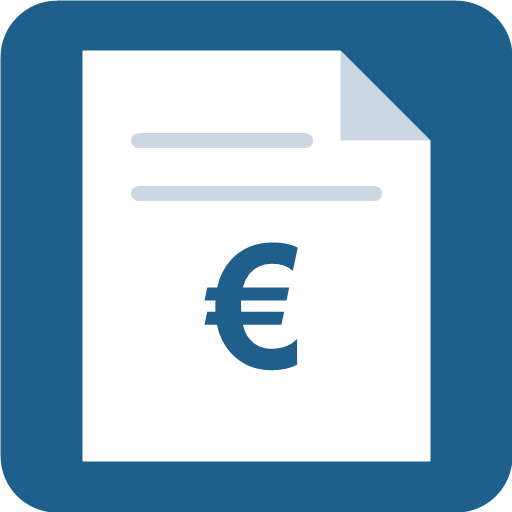
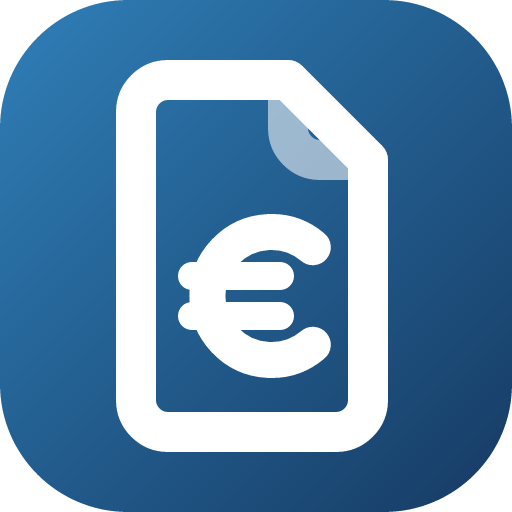
Nouvelles icônes, même style que le playground
Favicons, icônes Apple et de manifeste, icônes Android adaptatives (avec la
version monochrome des icônes à thème) et Windows, générées depuis
bored-dev-playground/brand.

diff --git a/index.html b/index.html
@@ -10,6 +10,7 @@
     <meta name="apple-mobile-web-app-title" content="Quittances">
     <title>Quittances de loyer</title>
     <link rel="manifest" href="./manifest.webmanifest">
+    <link rel="icon" href="./icons/icon.svg" type="image/svg+xml">
     <link rel="icon" type="image/png" sizes="192x192" href="./icons/icon-192.png">
     <link rel="apple-touch-icon" href="./icons/apple-touch-icon.png">
     <link rel="stylesheet" href="./css/playground.css">

diff --git a/sw.js b/sw.js
@@ -1,4 +1,4 @@
-var CACHE = 'quittance-loyer-v6';
+var CACHE = 'quittance-loyer-v7';
 var ASSETS = [
     './',
     './index.html',
@@ -10,6 +10,7 @@ var ASSETS = [
     './js/app.js',
     './js/vendor/jspdf.umd.min.js',
     './manifest.webmanifest',
+    './icons/icon.svg',
     './icons/icon-192.png',
     './icons/icon-512.png',
     './icons/icon-maskable-512.png',

diff --git a/README.md b/README.md
@@ -84,7 +84,7 @@ cd android
 .\gradlew.bat assembleRelease    # APK signé si android\signing.properties est présent
 ```
 
-Le build release est minifié (R8, réduction des ressources) : l'APK pèse environ 1 Mo. `android/signing.properties` (ignoré par git) contient `QUITTANCE_KEYSTORE`, `QUITTANCE_KEYSTORE_PASSWORD`, `QUITTANCE_KEY_ALIAS`, `QUITTANCE_KEY_PASSWORD`. Le keystore de release doit être conservé précieusement : sans lui, impossible de publier une mise à jour installable par-dessus l'existant. Les icônes se régénèrent avec `powershell -ExecutionPolicy Bypass -File tools/make-android-icons.ps1`.
+Le build release est minifié (R8, réduction des ressources) : l'APK pèse environ 1 Mo. `android/signing.properties` (ignoré par git) contient `QUITTANCE_KEYSTORE`, `QUITTANCE_KEYSTORE_PASSWORD`, `QUITTANCE_KEY_ALIAS`, `QUITTANCE_KEY_PASSWORD`. Le keystore de release doit être conservé précieusement : sans lui, impossible de publier une mise à jour installable par-dessus l'existant. Les icônes (web et Android) sont générées depuis le playground : `brand/icons/la-quittance.svg`, puis `node build.js la-quittance` dans `bored-dev-playground/brand`.
 
 ### Publication automatique (optionnelle)
 
@@ -111,7 +111,7 @@ git push origin v1.1.0
 
   Le PDF est écrit dans `tools/out/`.
 
-- Régénération des icônes et de la signature d'exemple (Windows PowerShell) :
+- Régénération de la signature d'exemple (Windows PowerShell) ; les icônes viennent du playground (`brand/`) :
 
   ```powershell
   powershell -ExecutionPolicy Bypass -File tools/make-assets.ps1

diff --git a/CLAUDE.md b/CLAUDE.md
@@ -8,6 +8,7 @@ Avant de modifier la page ou le style, se demander si le changement est local ou
 - **Global** (bandeau, cartes, boutons, puces, pied de page, couleurs neutres, comportement clair / sombre…) : ne pas le faire ici. `css/playground.css` est une copie de `kit/playground.css` du playground : modifier le kit là-bas, lancer `sh kit/sync.sh`, puis commiter dans chaque projet.
 - **Local** (couleurs ou police du projet) : le faire dans la page, en redéfinissant les variables `--pg-*` après le kit.
 - Si le nom, la description, les tags, l'icône ou l'adresse du projet changent, mettre à jour sa carte dans `index.html` du playground.
+- Icônes (favicons, icônes Android et Windows, logo de la page) : générées par le playground à partir de `brand/icons/la-quittance.svg` (`node build.js la-quittance` dans `brand/`). Ne pas les redessiner ici : modifier le SVG là-bas, relancer, puis commiter dans les deux repos.
 
 À garder sur la page : le bandeau `pg-strip` qui ramène au playground, le thème clair / sombre automatique, le responsive (pas de défilement horizontal sur mobile), 2 polices max (celle du projet + JetBrains Mono).
 
